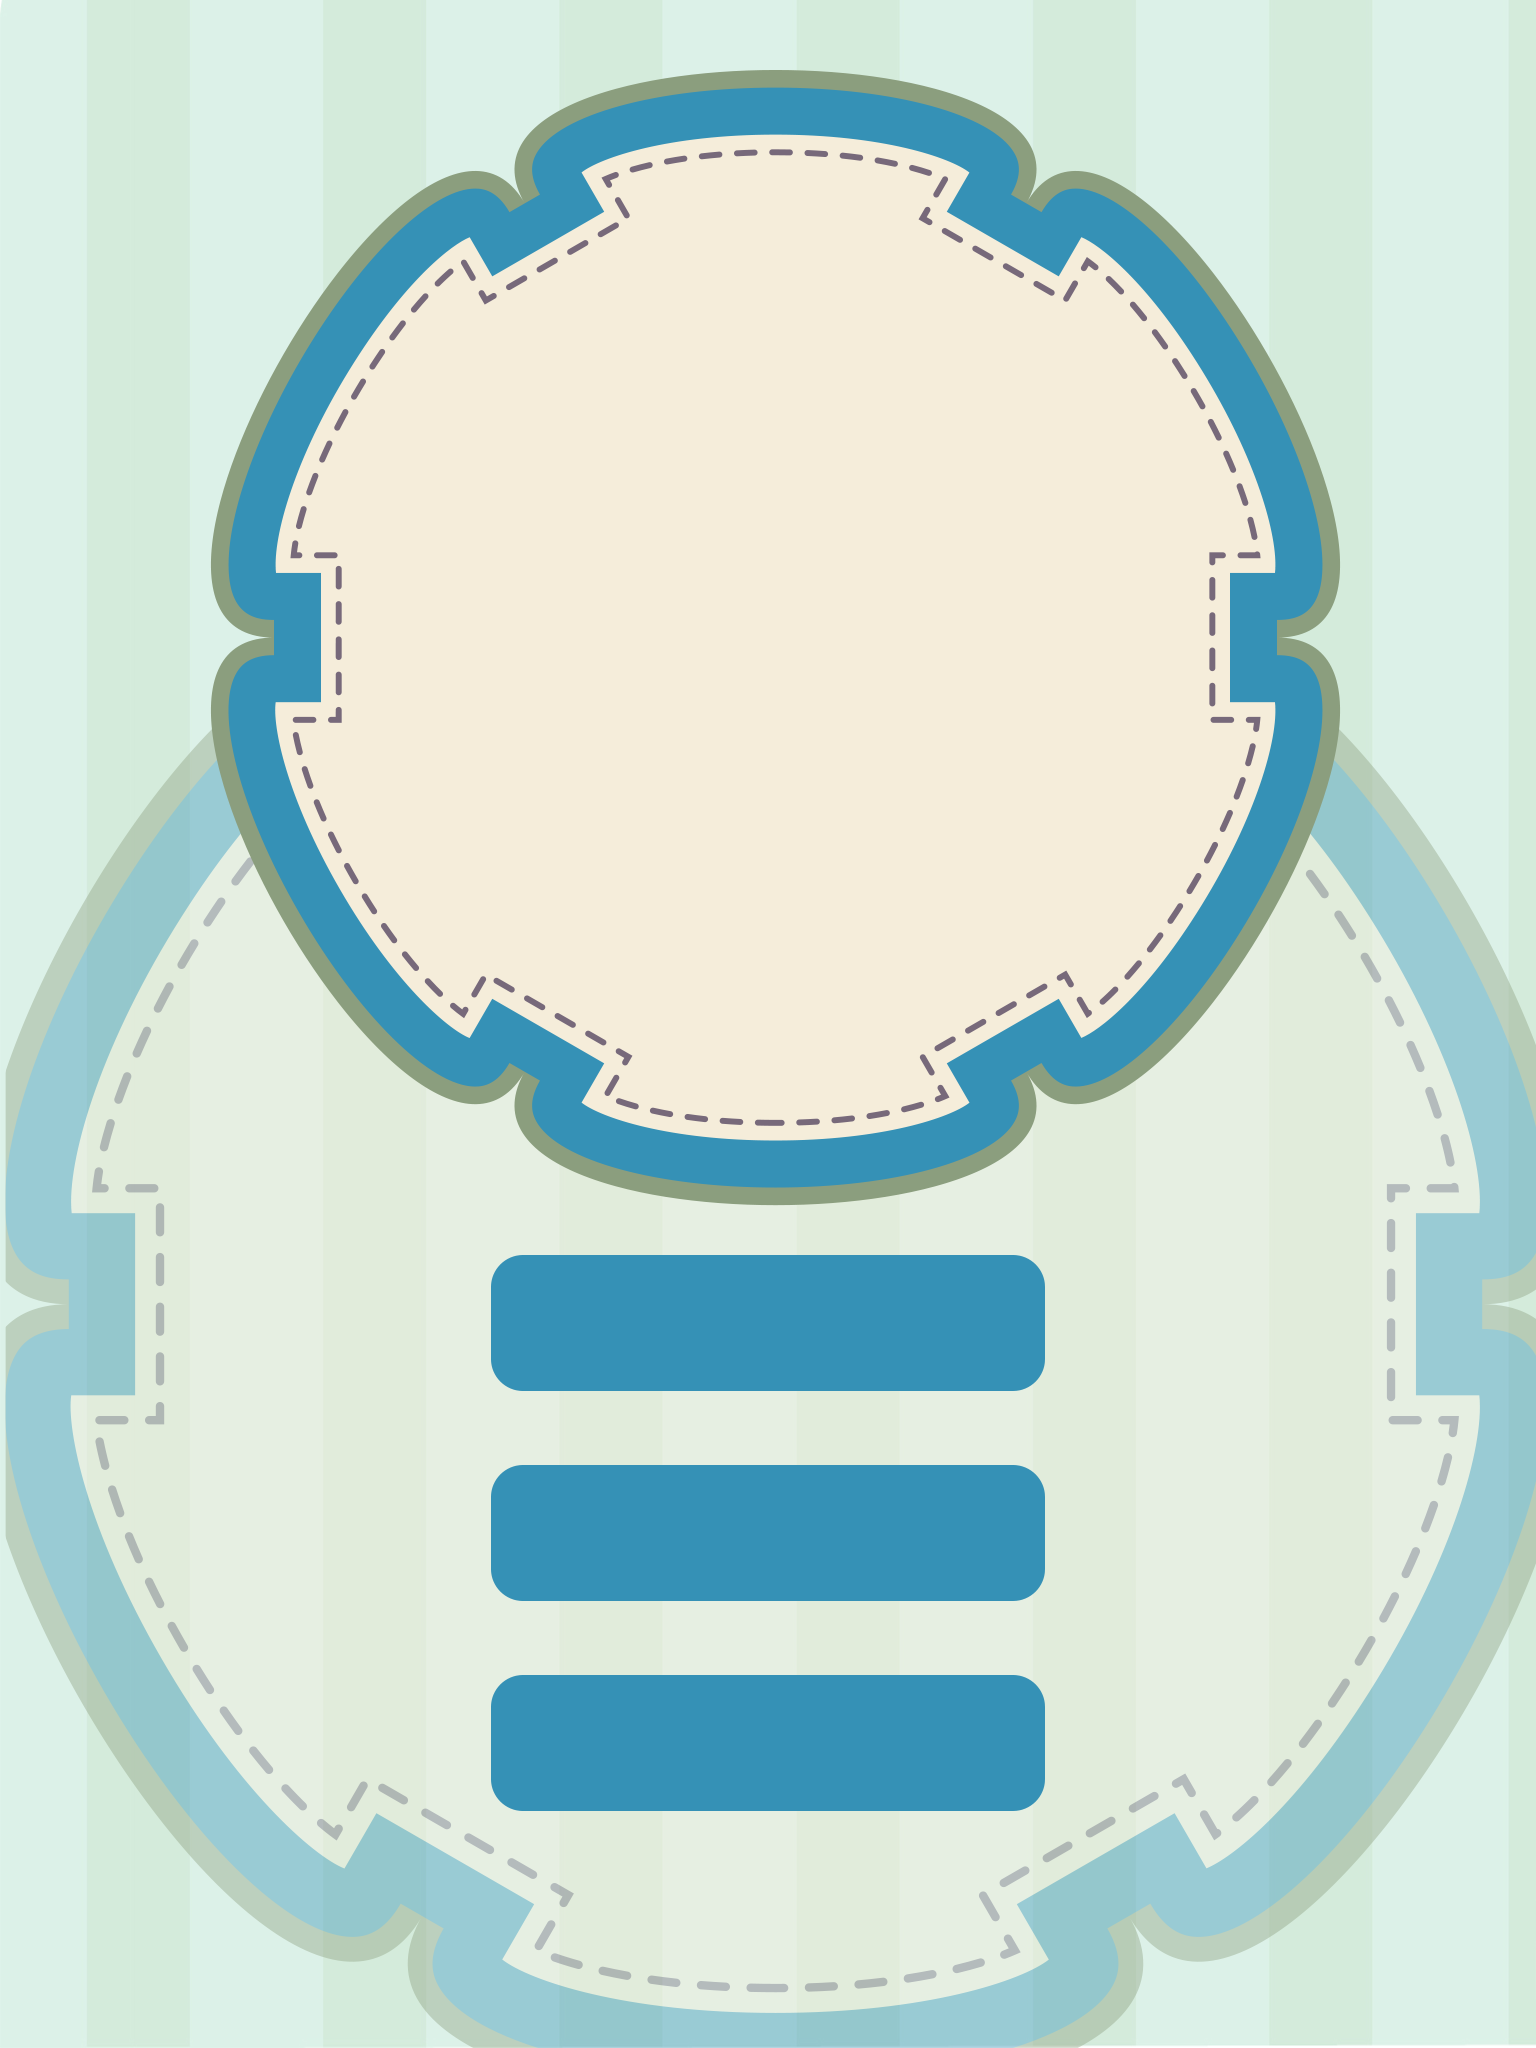
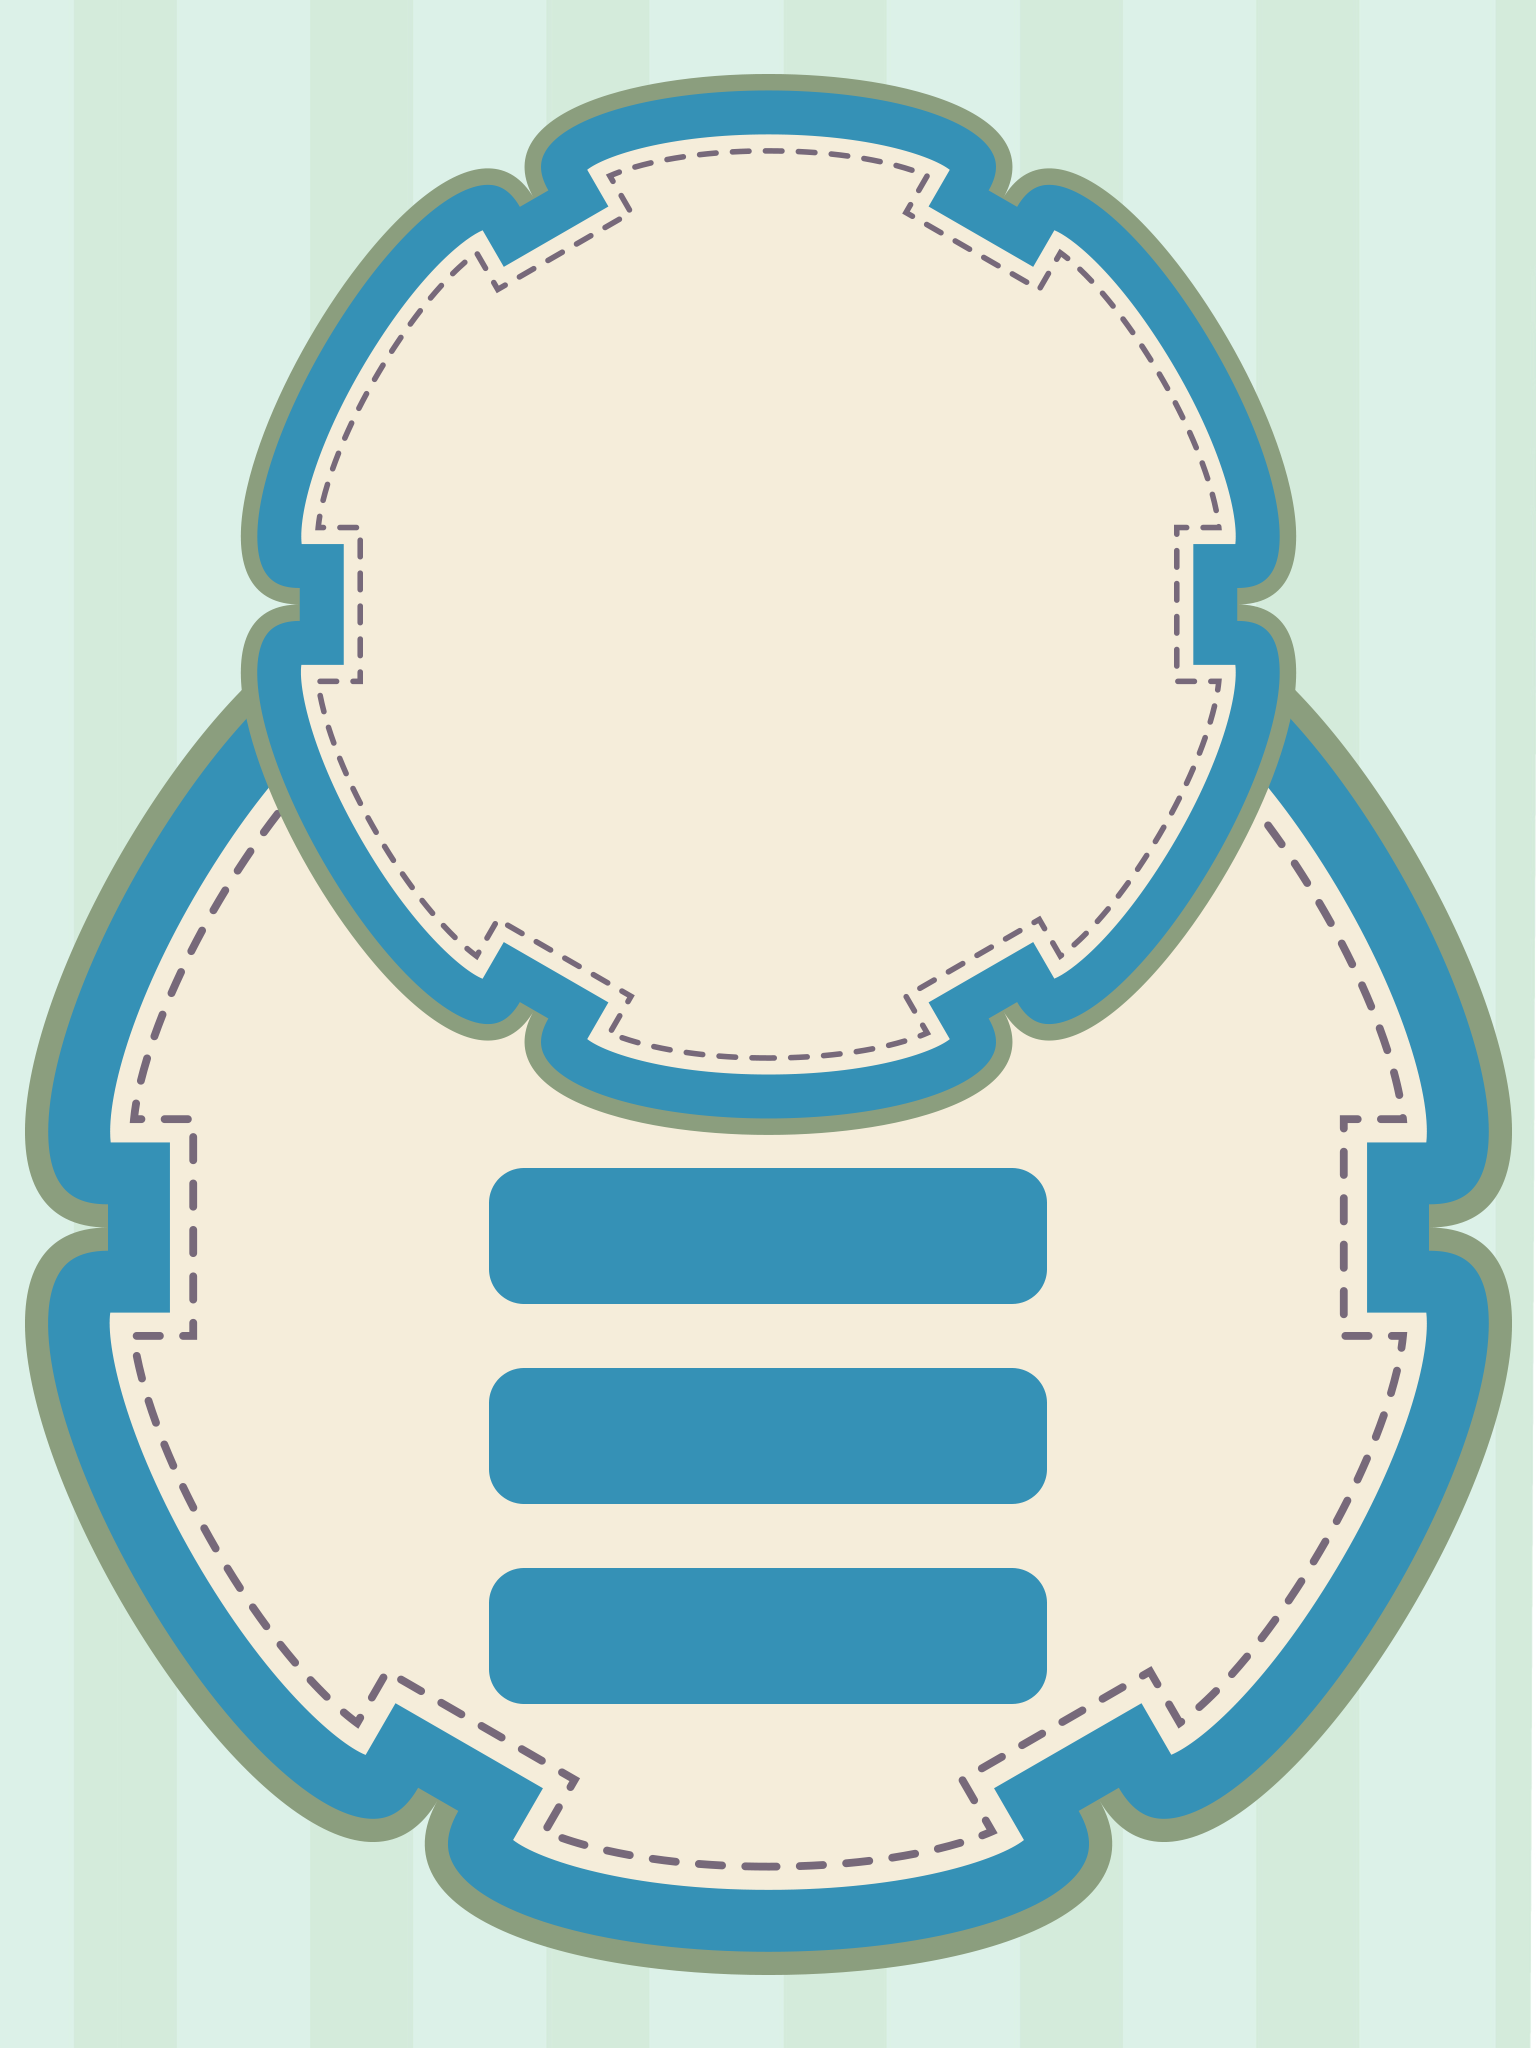
修改小助手

diff --git a/src/pages/teacher/assistant.vue b/src/pages/teacher/assistant.vue
@@ -32,7 +32,7 @@ export default {
   name: "assistant",
   data() {
     return {
-        textname:'xuesheng001',
+        textname:'',
         selet:'请选择',
         studentlist:[],
         studentid:[],
@@ -43,10 +43,10 @@ export default {
         type:'',
         xiaozu:'',
         jishi:'',
-        one:'',
-        two:'',
-        three:'',
-        four:''
+        one:'0',
+        two:'0',
+        three:'0',
+        four:'0'
     };
   },
   methods: {
@@ -64,6 +64,8 @@ export default {
               this.xiaozu = Number(value.value)
               if(this.xiaozu === "" || this.xiaozu ==null ||isNaN(this.xiaozu)){
                   Toast('请输入小组个数');
+              }else {
+                  this.textname=''
               }
             }).catch(err=>{
                 console.log(err)
@@ -96,36 +98,32 @@ export default {
       state(){
           let self = this
             self.clear = false
-          if(this.type=='个人'){
+          if(self.type=='个人'){
             let interval = setInterval(function(){
-                if(self.clear){
+                if(self.clear || self.type!='个人'){
                 clearInterval(interval)
                 }
             let i = Math.floor(Math.random()*(self.studentname.length));
             self.textname = self.studentname[i]
             },60)
           }
-          if(this.type=='小组'){
+          if(self.type=='小组'){
               if(self.xiaozu){
                   let interval = setInterval(function(){
-                if(self.clear){
+                if(self.clear || self.type!='小组'){
                 clearInterval(interval)
                 }
                 let i = Math.ceil(Math.random() * self.xiaozu)
-                console.log(i)
-                if(i == 10){
-                    clearInterval(interval)
-                }
                 self.textname = i
                 },60)
               }else{
                   Toast('请输入小组个数');
               }
           }
-          if(this.type=='计时'){
+          if(self.type=='计时'){
               if(self.jishi){
                 let interval = setInterval(function(){
-                    if(self.clear){
+                    if(self.clear||self.type!='计时'){
                     clearInterval(interval)
                     }else{
                         if(self.four==0){
@@ -146,12 +144,13 @@ export default {
                         if(self.four==9&&self.three==5&&self.two!=0){
                             self.two = self.two-1
                         }
-                        if(self.four==0&&self.three==0&&self.two==0&&self.one==0){
-                            clearInterval(interval)
-                            Toast('时间到');
-                        }
                         if(self.four==9&&self.three==5&&self.two==9&&self.one!=0){
                             self.one = self.one-1
+                        }
+                        if(self.four==0&&self.three==0&&self.two==0&&self.one==0){
+                            clearInterval(interval)
+                            console.log(132)
+                            Toast('时间到');
                         }
                     }
                 },1000)
@@ -191,7 +190,9 @@ export default {
   width: 100%;
   position: relative;
   img {
+    position: relative;
     width: 100%;
+    // padding-bottom: 200px;
   }
   .img {
       position: absolute;
@@ -227,7 +228,7 @@ export default {
          color: #3591B6;
          position: absolute;
          transform-style: preserve-3d;
-         top: 24%;
+         top: 22%;
          left: 50%;
          font-size: 6rem;
          margin-left: -28%;
@@ -257,7 +258,7 @@ export default {
         width: 36.2%;
         position: absolute;
         left: 50%;
-        top: 61.2%;
+        top: 57%;
         height: 6.8%;
         line-height: 5rem;
         text-align: center;
@@ -305,7 +306,7 @@ export default {
         width: 36.2%;
         position: absolute;
         left: 50%;
-        top: 71.2%;
+        top: 66.6%;
         height: 6.8%;
         line-height: 5rem;
         text-align: center;
@@ -318,7 +319,7 @@ export default {
         width: 36.2%;
         position: absolute;
         left: 50%;
-        top: 81.2%;
+        top: 76.2%;
         height: 6.8%;
         line-height: 5rem;
         text-align: center;

diff --git a/src/pages/teacher/classroom/show.vue b/src/pages/teacher/classroom/show.vue
@@ -735,10 +735,10 @@
                     }
                 }
                     .img {
-                        position: absolute;
-                        right: -3rem;
+                        position: fixed;
+                        right: 3rem;
                         top: 8rem;
-                        transform: scale(0.8)
+                        transform: scale(0.6)
                     }
                 .right {
                     width: 8.57rem;

diff --git a/src/api/api.js b/src/api/api.js
@@ -83,5 +83,5 @@ export default ({
         time: new Date().getTime()
       }
     })
-  },
+  }
 })
